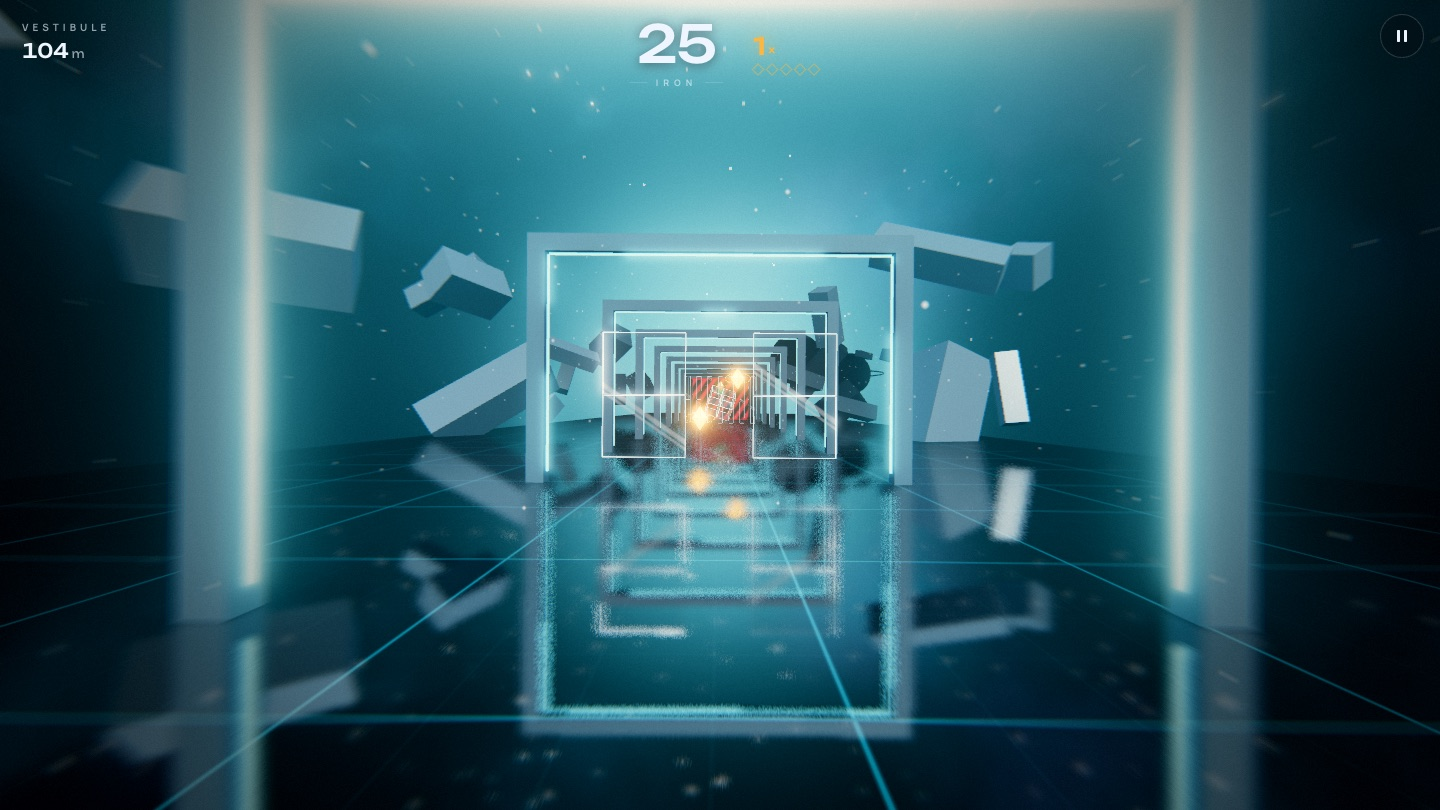
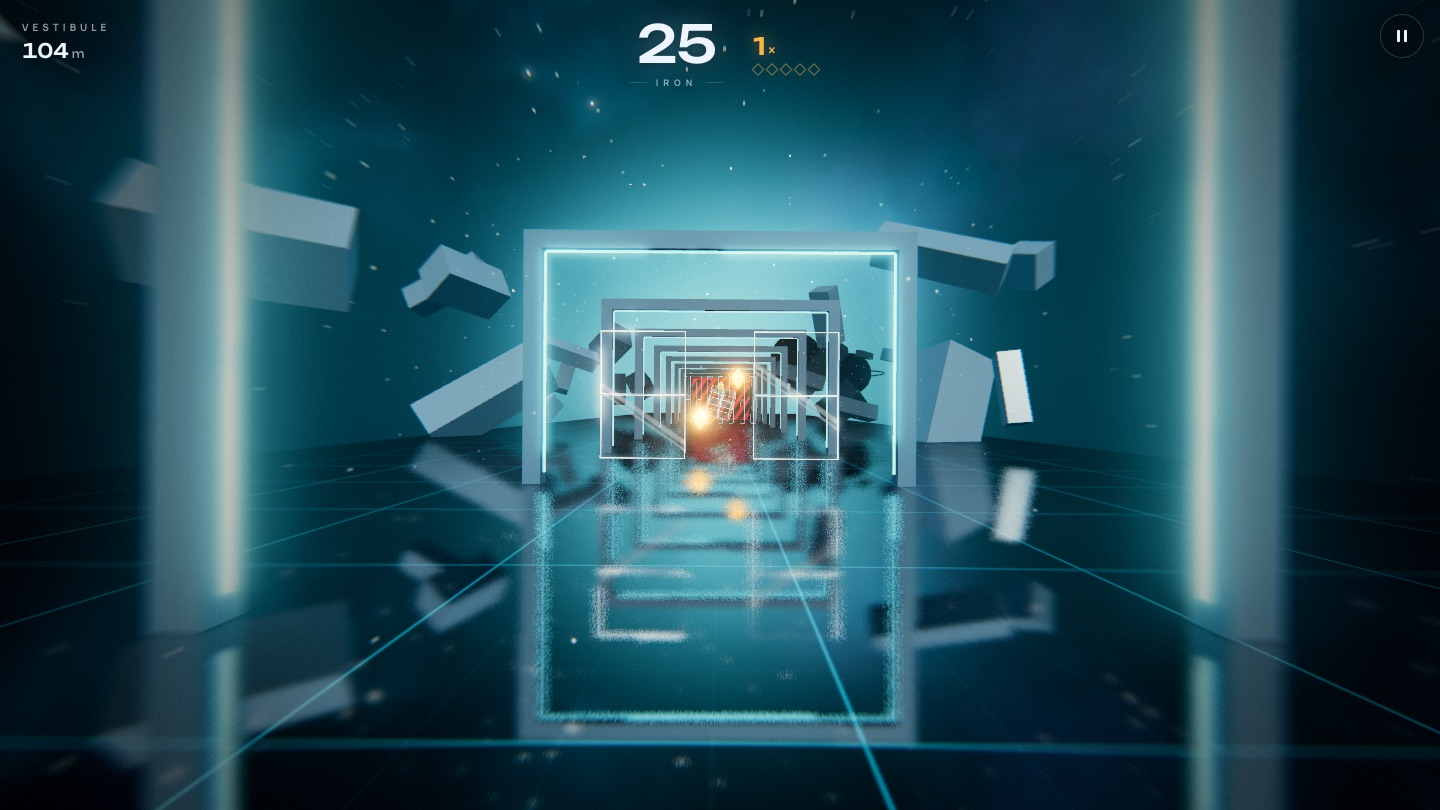
Add public README, MIT license and refreshed screenshots
- Rewrite README for public readers: overview, screenshots, setup,
  controls, rules, sectors, technical notes, development and credits
- Add MIT LICENSE and package.json metadata
- Reframe Foundry and Atrium screenshots; add `npm run shots`

diff --git a/README.md b/README.md
@@ -1,89 +1,150 @@
+<div align="center">
+
 # SHARDWAKE
 
-A first-person rail shooter played in the browser (Three.js + Vite). It's inspired by the core loop of *Smash Hit*, with an original setting, visuals and audio.
+**A glass-breaking rail shooter that runs in your browser.**
 
-> **The Refractory** is an abandoned light-station adrift in a dim nebula. Its halls were built from lens-glass to focus starlight into the **Core Lens**, which has since gone dark. You're a maintenance drone pulled along the station's old light-rail, and all you have to work with is a hopper of iron spheres. Shatter the glass that has crept across the rail, and shoot the amber *prisms*, which still hold enough charge to forge new spheres. Get through four sectors to relight the Core.
+Ride the light-rail through a derelict station, throw iron spheres to shatter the glass in your path, and relight the Core Lens.
 
-## Run it
+[![Three.js](https://img.shields.io/badge/three.js-r186-black?logo=three.js)](https://threejs.org)
+[![Vite](https://img.shields.io/badge/vite-8-646cff?logo=vite&logoColor=white)](https://vitejs.dev)
+[![License: MIT](https://img.shields.io/badge/license-MIT-ffb640)](LICENSE)
+
+<img src="docs/images/title.jpg" alt="SHARDWAKE title screen: the logo over a live flythrough of a glass corridor" width="100%">
+
+</div>
+
+---
+
+## About
+
+SHARDWAKE is a first-person rail shooter. The camera moves forward on its own, so you never steer. All you do is aim and throw, and every throw costs ammunition. Break the glass before you hit it, shoot amber prisms to refill, and chain prism hits to throw more spheres at once.
+
+> **The Refractory** is an abandoned light-station adrift in a dim nebula. Its halls were built from lens-glass to focus starlight into the **Core Lens**, which has since gone dark. You're a maintenance drone pulled along the station's old light-rail, with nothing but a hopper of iron spheres. Get through four sectors and relight the Core.
+
+Every visual and every sound is **generated in code**: geometry, shaders, canvas textures, and music and sound effects synthesized with the Web Audio API. There are no image, model or audio files in the repository.
+
+The game is inspired by the core loop of *Smash Hit* (Mediocre, 2014). It's an independent fan project with its own name, setting, levels, art and music, and isn't affiliated with or endorsed by Mediocre.
+
+## Screenshots
+
+| | |
+|---|---|
+| ![Sector 1, Vestibule: a teal corridor of square portals with a mirror floor](docs/images/sector1-vestibule.jpg) | ![Sector 2, Orrery Hall: violet neon rings, ringed planets and a spinning glass fan](docs/images/sector2-orrery.jpg) |
+| **Vestibule:** pale portals and floating monoliths | **Orrery Hall:** rotating rings and a nebula sky |
+| ![Sector 3, Foundry Lens: hex frames, a hazard-striped crusher and a green switch](docs/images/sector3-foundry.jpg) | ![Sector 4, Tidal Atrium: dark pillars, a swinging pendulum and a glass wall over rippling water](docs/images/sector4-atrium.jpg) |
+| **Foundry Lens:** crushers you park with a switch | **Tidal Atrium:** pendulums over a rippling floor |
+
+<p align="center">
+  <img src="docs/images/results.jpg" alt="Results screen with an A rank, 858 m distance and run stats" width="72%">
+  &nbsp;
+  <img src="docs/images/title-mobile.jpg" alt="Title screen on a phone" width="22%">
+</p>
+
+## Play
+
+You need [Node.js](https://nodejs.org) 18 or newer.
+
 ```bash
+git clone https://github.com/muinsaiyed/Shardwake.git
+cd Shardwake
 npm install
-npm run dev          # http://localhost:5173 (also served on your LAN for phones)
-npm run build        # static build in dist/ (relative paths, can be hosted anywhere)
-npm run preview      # serve the production build
+npm run dev
 ```
-Automated playtest (the dev server must be running; uses your installed Google Chrome):
-```bash
-npm run playtest                 # 25 checks + screenshots in tests/shots/
-node tests/shots.mjs 40 100 250  # warp to distances and screenshot them
-```
-Debug URL flags: `?bot` (autoplayer), `?ff=3` (fast-forward simulation ×3).
 
-## Controls
+Open **http://localhost:5173**. The dev server also listens on your local network, so you can open the address it prints on a phone on the same Wi-Fi. Headphones recommended.
+
+### Controls
+
 | Input | Action |
 |---|---|
-| Click / tap anywhere in the view | Throw an iron sphere toward that point |
-| Hold (during **Overdrive**) | Stream spheres continuously |
-| `Esc` / `P` / ❚❚ button | Pause / resume |
+| **Click / tap** anywhere | Throw an iron sphere at that point |
+| **Hold** (during Overdrive) | Throw continuously |
+| **Esc** / **P** / ❚❚ | Pause and resume |
 
-## Rules
-- You start with **25 spheres**. Each throw costs **1**, however many balls it fires.
-- Crashing into glass or a metal obstacle costs **10** and resets your streak. At **0** the run ends.
-- **Amber prisms** give +3 (small) or +5 (large, ringed).
-- **Streak:** every 5 prisms in a row add a ball to each throw, up to 5× (shown by the diamond pips and the ×N counter). Letting a prism slip past unbroken, or crashing, resets it to 1×.
-- **Green switches** open hazard-striped doors (some need 2–4 switches), and park crushers and pendulums out of the way.
-- **Power-ups** (hit them with a ball):
-  - **Overdrive** (magenta ∞, 6 s): unlimited spheres, hold to stream.
-  - **Nova Rounds** (violet starburst, 8 s): explosive spheres that shatter everything nearby and wreck crushers and pendulums.
-  - **Stasis** (cyan hourglass, 6 s): slows the world to 45 % and muffles the music.
-- **Checkpoints:** each sector you reach unlocks it on the title screen. After a game over you can retry from the sector you died in.
+## How to play
 
-## Sectors
-| # | Name | Palette / structure | New ideas |
+- **Ammo.** You start with **25** iron spheres. Each throw costs **1**, however many spheres it releases.
+- **Crashing.** Hitting glass or metal costs **10** spheres and resets your streak. At **0** the run ends.
+- **Prisms.** Amber prisms restore **+3** (small) or **+5** (large, ringed).
+- **Multi-throw.** Every **5 prisms in a row** adds a sphere to each throw, up to **5 at once**. The ×N counter and diamond pips show progress. Letting a prism slip past, or crashing, resets it to 1×.
+- **Switches.** Green switches open hazard-striped doors (the later doors need up to four) and park crushers and pendulums out of your path.
+- **Power-ups.** Hit one with a sphere to activate it:
+
+  | Power-up | Duration | Effect |
+  |---|---|---|
+  | **Overdrive** (magenta ∞) | 6 s | Unlimited spheres; hold to stream |
+  | **Nova Rounds** (violet starburst) | 8 s | Explosive spheres that clear nearby glass and wreck crushers and pendulums |
+  | **Stasis** (cyan hourglass) | 6 s | Slows the world to 45 % |
+
+- **Checkpoints.** Reaching a sector unlocks it on the title screen. After a game over you can retry from the sector where you ran out. Your best distance and unlocked sectors are saved in the browser.
+
+### The four sectors
+
+| # | Sector | Look | What it introduces |
 |---|---|---|---|
-| 1 | Vestibule | Pale teal, white square portals, floating monoliths | Panes, a full glass wall, sliding panes, tumbling cube, first switch door |
-| 2 | Orrery Hall | Indigo/violet, rotating neon rings, ringed planets | Glass fans, orbiting prisms, Overdrive into triple glass walls, metal lattice, 2-switch door |
-| 3 | Foundry Lens | Steel/charcoal, hex frames with orange lamps, beat-driven pistons | Crushers with switches, Nova Rounds, counter-sliding panes, 3-switch door |
-| 4 | Tidal Atrium | Deep green/aqua, towering pillars, rising halos, rippling floor | Pendulums, Stasis, counter-rotating fans, spinning pane, 4-switch final gate → Core Lens |
+| 1 | **Vestibule** | Pale teal portals, floating monoliths | Glass panes and walls, sliding panes, a tumbling glass cube, the first switch door |
+| 2 | **Orrery Hall** | Violet rings, ringed planets, nebula | Spinning glass fans, orbiting prisms, Overdrive into triple glass walls, metal lattices |
+| 3 | **Foundry Lens** | Steel hex frames, beat-driven pistons | Crushers, Nova Rounds, counter-sliding panes, a 3-switch door |
+| 4 | **Tidal Atrium** | Towering pillars over rippling water | Pendulums, Stasis, counter-rotating fans, the 4-switch final gate |
 
-Each sector has its own synthesized music track (96 → 108 → 120 → 126 BPM). Moving obstacles (sliding panes, fans, orbiting prisms, pistons) are phase-locked to the beat clock.
+Each sector has its own synthesized soundtrack (96 → 108 → 120 → 126 BPM), and the moving obstacles are locked to the beat.
 
-## Art direction
-- **Rendering:** a mirror floor (planar reflection with a rotated-disk blur and water ripple in the Atrium), plus a procedural nebula sky whose horizon matches the fog. HDR bloom, and 4× MSAA kept through the post-processing chain.
-- **Glass shader:** a crisp rim computed from each pane's real dimensions, a fresnel sheen with a thin-film iridescent tint, and a diagonal specular glint that sweeps across.
-- **Finishing pass:** radial speed blur, chromatic aberration (it spikes on crashes, streaks and power-ups), per-sector split-tone grading, vignette, film grain, and colour flashes at sector gates. Stasis desaturates the image.
-- **Motion:** ball trails, billboarded impact rings, drifting dust motes, jewel prisms (translucent shell with a hot core), a beat-locked camera bob and FOV kicks.
-- **UI:** Unbounded (display) with Manrope (text), a custom reticle cursor with tap pulses, and a title screen over a live attract-mode flythrough. Results show a rank badge, a count-up distance and staggered stat reveals.
-- **Auto-quality:** the game steps down if frame rate drops (mirror off → bloom off → lower resolution).
+## Under the hood
 
-## Project layout
+Built with [three.js](https://threejs.org) and [Vite](https://vitejs.dev), in plain JavaScript with no framework.
+
+- **Physics.** Custom swept collision (segment vs. oriented box and sphere), so fast spheres never tunnel through thin glass. The aim ray uses the same colliders as the physics, so spheres land where you point.
+- **Glass.** A GLSL shader draws crisp rims from each pane's real dimensions, adds a fresnel sheen with a thin-film iridescent tint, and sweeps a specular glint across. Pooled shards are drawn through a single `InstancedMesh`.
+- **Scene.** A planar-reflection mirror floor (with a water ripple in the Atrium), a procedural nebula sky that blends into the fog, and drifting dust.
+- **Post-processing.** HDR bloom with MSAA, then a finishing pass: speed blur, chromatic aberration that spikes on impacts, per-sector colour grading, vignette and film grain.
+- **Audio.** A small step sequencer (kick, hats, clap, saw bass, arps, pads, generated reverb) plus about 14 synthesized sound effects, including glass shatter, crash and prism chimes.
+- **Auto-quality.** If the frame rate drops, the game turns off the mirror, then bloom, then lowers the resolution.
+
+### Project layout
+
 ```
-index.html        HUD + screens markup
-src/main.js       UI wiring (HUD, title/pause/results, checkpoints)
-src/game.js       Rail movement, camera, shooting, collision, rules, rendering
-src/entities.js   Glass panels, fans, cube, lattice, prisms, switches, doors, crushers, pendulums, power-ups, Core Lens
-src/rooms.js      Sector palettes, decor builders, obstacle layouts
-src/fx.js         Pooled instanced glass shards + additive sparks/trails
-src/look.js       Glass shader, sky, mirror floor, finishing pass, dust, impact rings
-src/audio.js      Web Audio step sequencer (music) + procedural SFX
-docs/RESEARCH.md  Reference research, sources, confirmed vs assumed mechanics
-tests/            Playwright playtest + screenshot tools
+index.html          HUD and menu markup
+src/main.js         UI: HUD, title / pause / results screens, checkpoints
+src/game.js         Rail movement, camera, shooting, collision, rules, render loop
+src/entities.js     Glass panels, fans, lattices, prisms, switches, doors, crushers, pendulums, power-ups
+src/rooms.js        Sector palettes, decor and obstacle layouts
+src/look.js         Glass shader, sky, mirror floor, finishing pass, dust, impact rings
+src/fx.js           Glass shards, sparks and trails
+src/audio.js        Music sequencer and sound effects
+docs/RESEARCH.md    Research notes on the reference game's mechanics
+tests/              Automated playtest and screenshot scripts
 ```
 
-## Assets
-Everything visual and audio was made from scratch in code. The only third-party assets are two fonts, bundled locally through npm, so nothing is downloaded at runtime.
-| Asset | How it's made |
+Want to design your own sector? Each one is a short list of `P.add(distance, Entity, options)` calls in [`src/rooms.js`](src/rooms.js), plus a palette and a decor builder. The tuning constants (starting ammo, crash cost, streak length, throw speed, power-up durations) are at the top of [`src/game.js`](src/game.js).
+
+## Development
+
+| Command | What it does |
 |---|---|
-| Title/logo | CSS typography with an animated gradient shimmer; SVG favicon and reticle drawn inline |
-| Glass / sky / floor looks | Custom GLSL shaders in `src/look.js` |
-| Glass panes, fans, cube | Three.js box geometry, tinted transparent material with glowing edge lines |
-| Glass shards | One procedural triangular-prism geometry drawn through a pooled `InstancedMesh` |
-| Prisms, power-ups, switches | Octahedron/icosahedron/cylinder primitives; power-up icons drawn on canvas (∞, starburst, hourglass) |
-| Hazard stripes | Canvas-generated texture |
-| Floors (grid / circles / hex / water) | Canvas-generated textures |
-| Environment reflections | Three.js `RoomEnvironment` (built in, procedural) |
-| Music (6 tracks) | Web Audio step sequencer: synthesized kick, hats, clap, saw bass, arps and pads; generated reverb impulse |
-| Sound effects | Synthesized in real time: glass shatter, throw, prism chime, crash, metal clank, switch, door, explosion, power-up, streak, game over, victory |
+| `npm run dev` | Start the dev server with hot reload |
+| `npm run build` | Build a static site into `dist/` |
+| `npm run preview` | Serve the production build locally |
+| `npm run playtest` | Run the automated playtest (25 checks) |
+| `npm run shots` | Regenerate the README screenshots |
 
-Fonts: [Unbounded](https://fonts.google.com/specimen/Unbounded) and [Manrope](https://fonts.google.com/specimen/Manrope), both SIL Open Font License 1.1, installed via `@fontsource-variable/*`.
+**Deploying.** `npm run build` produces a fully static site that uses relative paths, so the `dist/` folder can be hosted anywhere, including GitHub Pages, Netlify or any file server.
 
-Libraries: [three.js](https://threejs.org) (MIT), [Vite](https://vitejs.dev) (MIT), [Playwright](https://playwright.dev) (Apache-2.0, tests only).
+**Automated playtest.** With the dev server running, `npm run playtest` drives the game in headless Chrome using [Playwright](https://playwright.dev). It checks throwing, ammo, prisms, streaks, crashes, pause, game over, restart, touch input and per-sector music. It also has an autoplayer finish the whole run, then saves screenshots to `tests/shots/`. It uses your installed Google Chrome by default; set `PW_CHANNEL` to use a different browser channel.
+
+**Debug URL flags:** `?bot` turns on the autoplayer, and `?ff=3` fast-forwards the simulation (up to 8×).
+
+## Browser support
+
+SHARDWAKE is tested in desktop Chrome, including a phone-sized touch emulation. It should run in any current browser with WebGL 2 (Edge, Firefox, Safari, and mobile Chrome and Safari), but those haven't been verified yet, so bug reports are welcome. Audio starts on your first click or tap, because browsers block autoplay.
+
+## Credits
+
+- Design, code, art and audio: procedurally generated for this project.
+- Fonts: [Unbounded](https://fonts.google.com/specimen/Unbounded) and [Manrope](https://fonts.google.com/specimen/Manrope), SIL Open Font License 1.1, bundled via [Fontsource](https://fontsource.org).
+- Libraries: [three.js](https://threejs.org) (MIT), [Vite](https://vitejs.dev) (MIT), and [Playwright](https://playwright.dev) (Apache-2.0, tests only).
+- Inspiration: *Smash Hit* by Mediocre. No assets, names or levels from it are used.
+
+## License
+
+[MIT](LICENSE): free to use, modify and share, including commercially. Keep the copyright notice.
